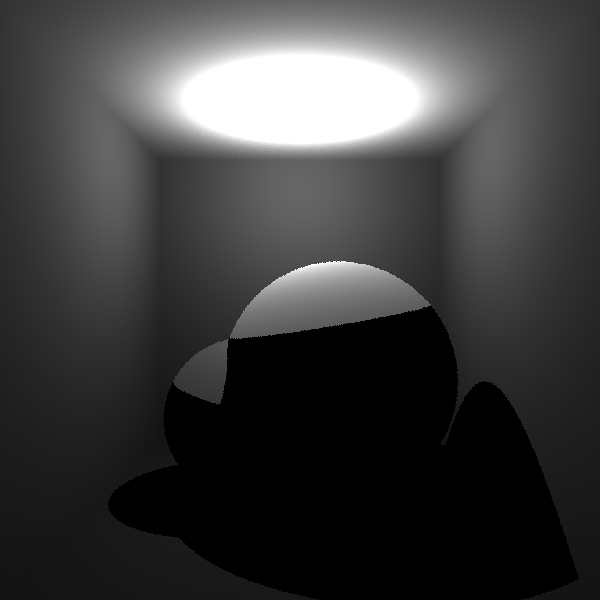
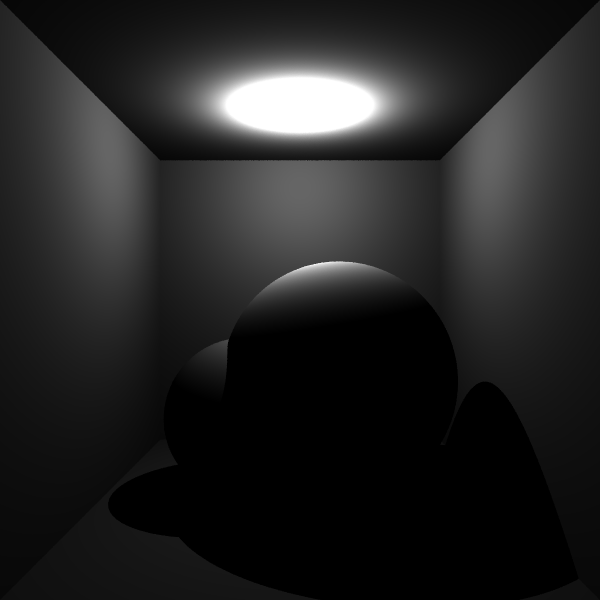
light falloff and lambert test, they are not implemented with the correct unit at the moment

Changed region(s): [[0.0, 0.0, 1.0, 0.27], [0.27, 0.42, 0.72, 0.69]]

diff --git a/RenderProcess.py b/RenderProcess.py
@@ -51,6 +51,10 @@ class RenderProcess(multiprocessing.Process):
 			#shadow ray---------temp implementation-----
 			lightPos = self.objects.lights[0].pos
 			shadowRayDir = lightPos - hitResult[1]
+			lambert = hitResult[2].dot(shadowRayDir.normalized())
+			if lambert <0:
+				lambert = 0
+
 			offsetOrigin = hitResult[1] + shadowRayDir.normalized() * 0.0001 #slightly offset the ray start point because the origin itself is a root
 			shadowRay = Ray(offsetOrigin,shadowRayDir)
 			temp_t = shadowRayDir.length()
@@ -59,9 +63,10 @@ class RenderProcess(multiprocessing.Process):
 			if shadowBool:
 				return Vector(0,0,0)
 			else:
-				return Vector(255,255,255) * numpy.interp(1/math.pow(temp_t,2),[0,0.001],[0,1])
+				return Vector(255,255,255) * numpy.interp(lambert/math.pow(temp_t,2),[0,0.001],[0,1])
 			#------------------------------------------
 
+			#world normal---------------------------------------------
 			# remapHitNormal = (hitResult[2]+Vector(1,1,1))*0.5
 			# return Vector(255*remapHitNormal.x,255*remapHitNormal.y,255*remapHitNormal.z)
 		else:

diff --git a/README.md b/README.md
@@ -2,8 +2,6 @@
 
 ## Ray tracing with Python3 and PyQt5
 
-## shawn / Aug 2017
-
 ![alt text](test.png)
 
 * Finished:
@@ -13,17 +11,22 @@
   * Plane intersection
   * Separate render thread from window
   * Patch render / multiprocessing
+  * Point light
+  * Shadow Ray
 
 * Need improvement:
   * Anti-aliasing
-  * Patch render
+  * Patch render / multiprocessing
 
 * To-do:
-  * Add light
-  * Shadow
+  * Area light
   * Radiance
+  * Render Equation integration
+  * Recursive tracing
   * Cube Intersection
   * Triange intersection
+  * Quad intersection
+  * Scene description
   * Restucture the whole thing
 
 
